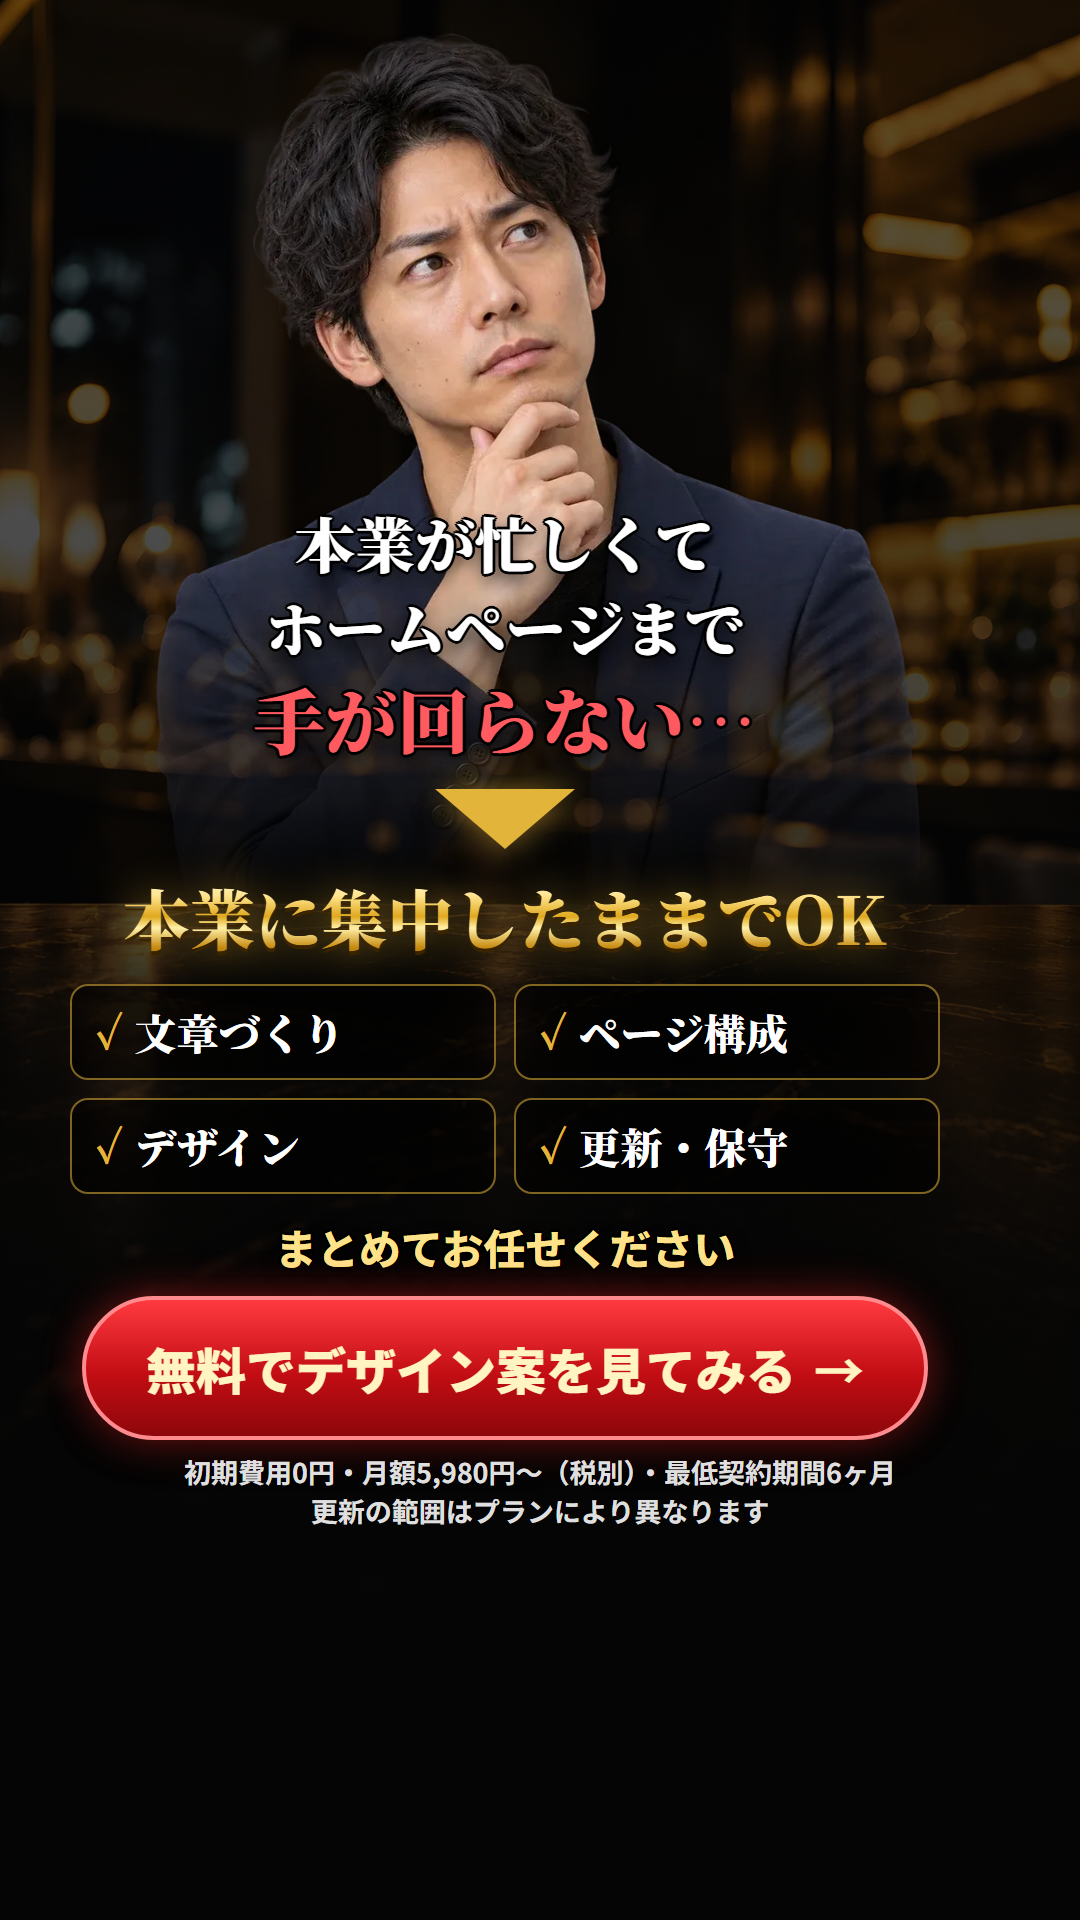
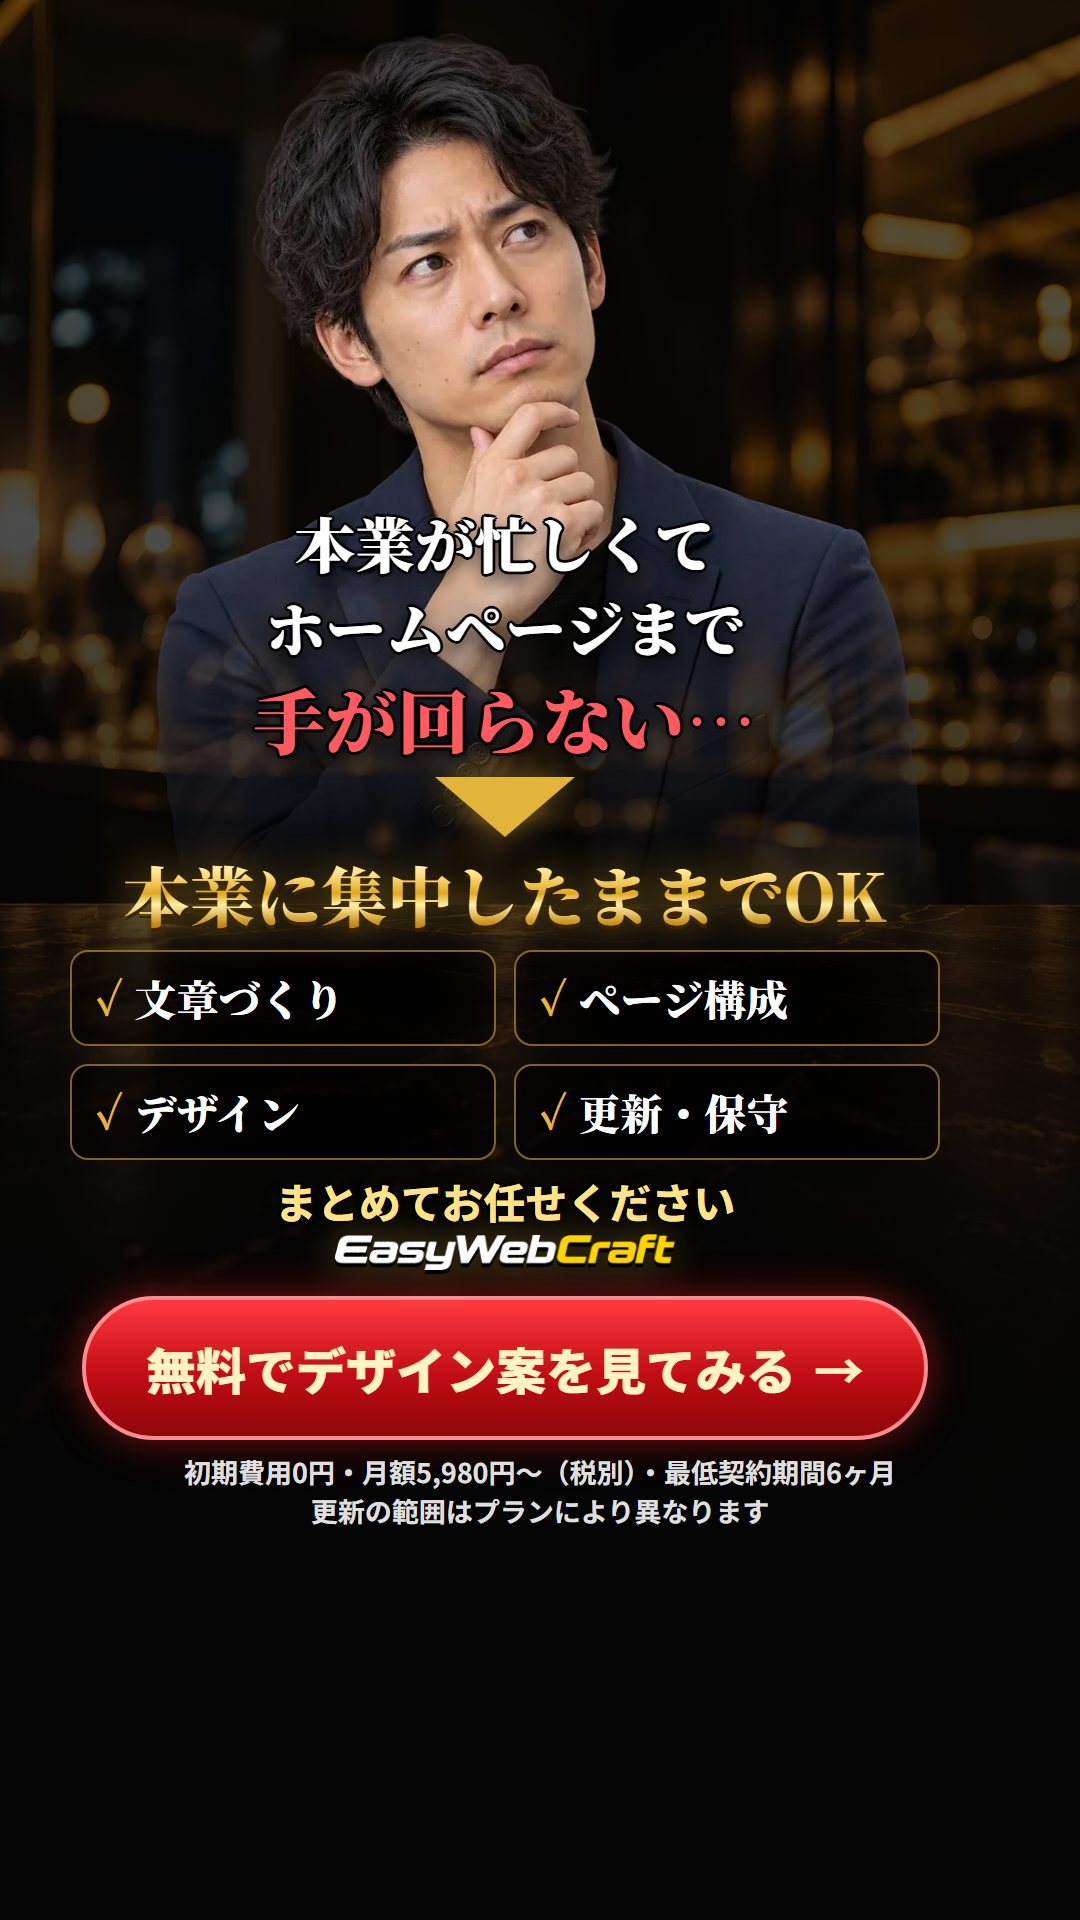
全広告にEasyWebCraftのロゴを入れる
Claude-Session: https://claude.ai/code/session_01G65TiHfa1BUco43NvNDLJF

Changed region(s): [[0.0611, 0.375, 0.825, 0.6875], [0.8556, 0.5312, 0.8861, 0.5625]]

diff --git a/challenge/ads.html b/challenge/ads.html
@@ -105,6 +105,11 @@ body{width:1080px; font-family:"Noto Sans JP",sans-serif; color:#fff; background
 .hpline{font-size:74px; line-height:1.2; color:#fff; padding:4px 26px; border-bottom:5px solid var(--gold)}
 .svc{margin-bottom:8px; font-weight:900; font-size:34px; letter-spacing:.08em}
 #c1 .in{top:520px}
+.blogo{width:340px; margin-bottom:26px}
+#c2 .q{font-size:58px; padding:30px 30px}
+#c2 .samples img{height:160px}
+#c2 .offer .p b{font-size:160px}
+#c2 .blogo{margin-bottom:18px}
 </style>
 </head>
 <body>
@@ -135,13 +140,14 @@ body{width:1080px; font-family:"Noto Sans JP",sans-serif; color:#fff; background
     <p class="q"><span class="d">でも……</span>こんなに安くて本当に<br><b>ちゃんとしたHP</b>が<br>できるの？</p>
     <div class="g20"></div>
     <div class="arrow"></div>
-    <div class="g30"></div>
+    <div class="g20"></div>
     <p class="serif gold" style="font-size:66px; line-height:1.35">契約する前に、<br>実際のデザインを作ります</p>
-    <div class="g40"></div>
+    <div class="g20"></div>
     <div class="offer"><p class="h">あなたの事業専用<br>HPデザイン案</p><p class="p"><b class="gold">0</b>円</p></div>
-    <div class="g40"></div>
+    <div class="g20"></div>
     <div class="samples"><img src="img/s-izakaya.webp" alt=""><img src="img/s-salon.webp" alt=""><img src="img/s-gym.webp" alt=""></div>
     <div class="sp"></div>
+    <img class="logo blogo" src="img/logo-fv.webp" alt="EasyWebCraft">
     <p class="cta">無料でデザイン案を見てみる</p>
   </div>
   <p class="fine">※無料はトップページ1ページ分のデザイン案です。画像はサンプル<br>ご契約後は月額5,980円〜（税別）・最低契約期間6ヶ月</p>
@@ -159,6 +165,7 @@ body{width:1080px; font-family:"Noto Sans JP",sans-serif; color:#fff; background
       <div class="c3">そのまま他社へ……</div>
     </div>
     <div class="sp"></div>
+    <img class="logo blogo" src="img/logo-fv.webp" alt="EasyWebCraft">
     <p class="cta">無料でデザイン案を見てみる</p>
   </div>
   <p class="fine">初期費用0円・月額5,980円〜（税別）・最低契約期間6ヶ月<br>相談・トップページのデザイン案までは無料です</p>
@@ -175,6 +182,7 @@ body{width:1080px; font-family:"Noto Sans JP",sans-serif; color:#fff; background
     <div class="g30"></div>
     <p class="sub outline">何も決まっていなくても、<br><em>相談するところから</em>始められます</p>
     <div class="sp"></div>
+    <img class="logo blogo" src="img/logo-fv.webp" alt="EasyWebCraft">
     <p class="cta">無料でデザイン案を見てみる</p>
   </div>
   <p class="fine">初期費用0円・月額5,980円〜（税別）・最低契約期間6ヶ月<br>相談・トップページのデザイン案までは無料です</p>
@@ -196,6 +204,7 @@ body{width:1080px; font-family:"Noto Sans JP",sans-serif; color:#fff; background
     <div class="g20"></div>
     <p class="sub outline" style="font-size:42px"><em>まとめてお任せください</em></p>
     <div class="sp"></div>
+    <img class="logo blogo" src="img/logo-fv.webp" alt="EasyWebCraft">
     <p class="cta">無料でデザイン案を見てみる</p>
   </div>
   <p class="fine">初期費用0円・月額5,980円〜（税別）・最低契約期間6ヶ月<br>更新の範囲はプランにより異なります</p>
@@ -214,6 +223,7 @@ body{width:1080px; font-family:"Noto Sans JP",sans-serif; color:#fff; background
     <div class="g30"></div>
     <p class="price outline" style="font-size:48px">月額<span class="n gold" style="font-size:140px">5,980</span>円〜</p>
     <div class="sp"></div>
+    <img class="logo blogo" src="img/logo-fv.webp" alt="EasyWebCraft">
     <p class="cta">無料でデザイン案を見てみる</p>
   </div>
   <p class="fine">※税別（税込6,578円〜）・最低契約期間6ヶ月<br>無料のデザイン案はトップページ1ページ分です</p>
